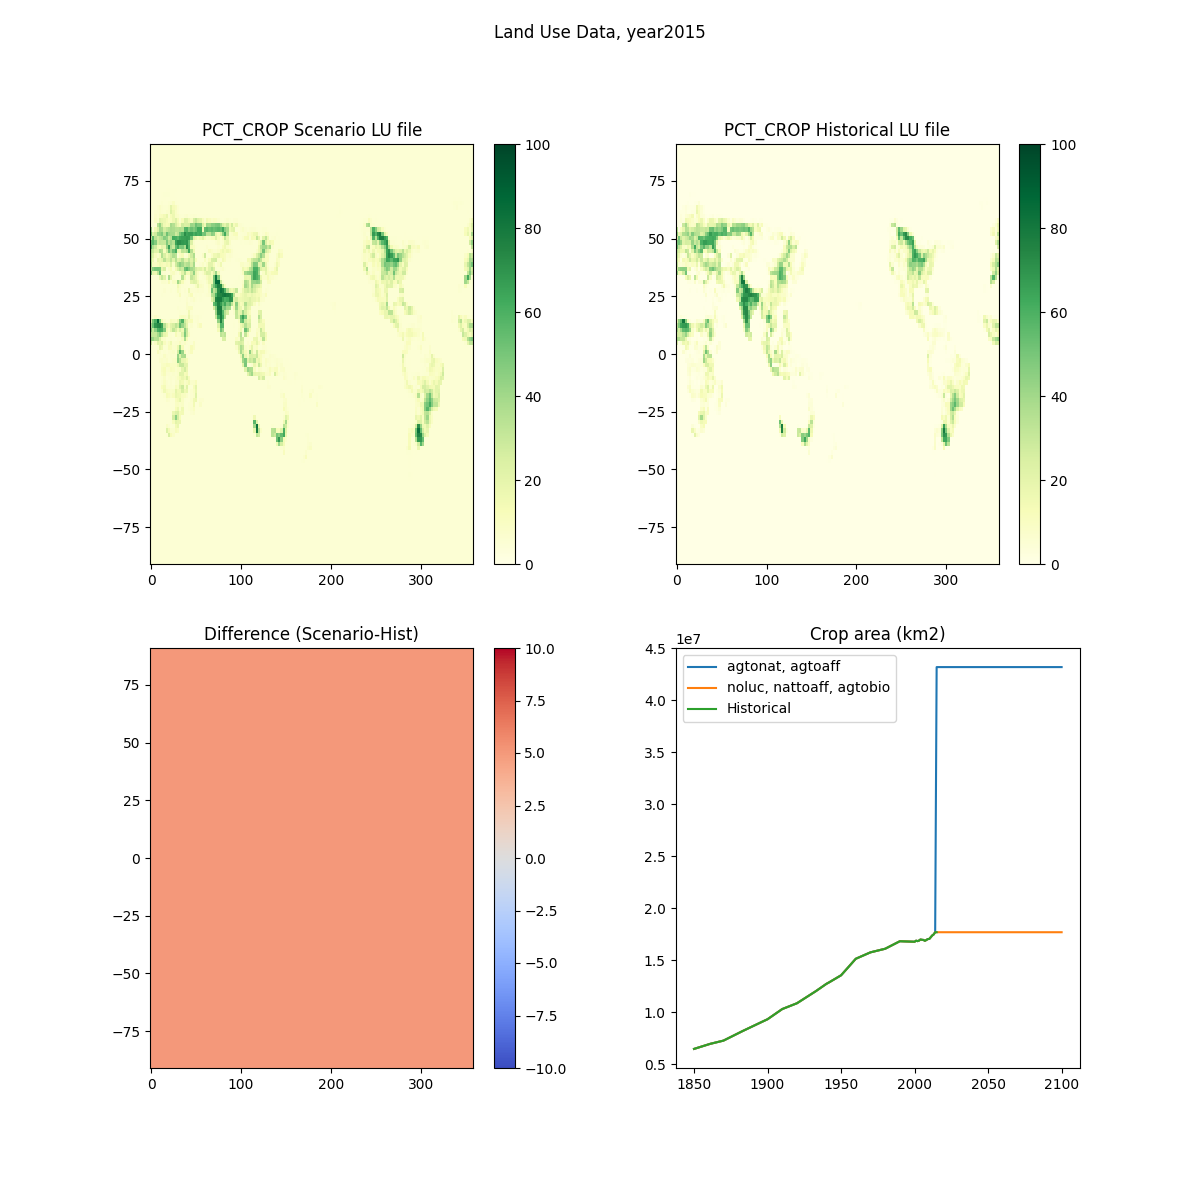
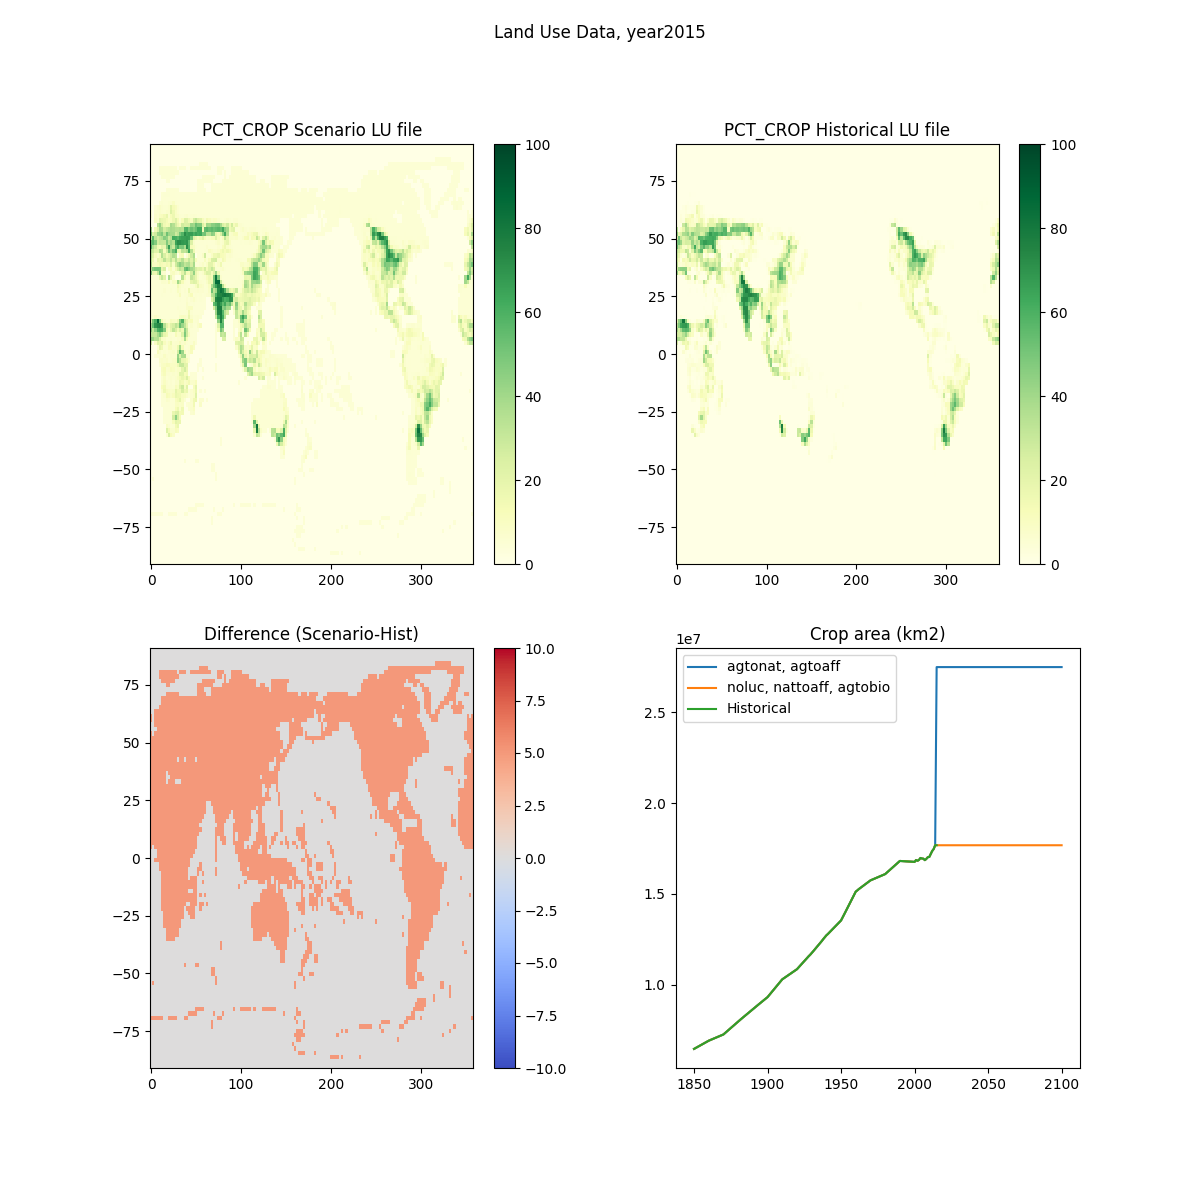
Fix bug in nattobio (mask out glacier regions)

diff --git a/Modify_landuse_future.py b/Modify_landuse_future.py
@@ -9,11 +9,12 @@ import Plot_LU
 from matplotlib import pyplot as plt
 
 # define scenario and experiment
-ssp_name1 = 'ssp370' #ssp126, ssp370
-ssp_name2 = 'SSP3-7.0' # SSP1-2.6, SSP3-7.0
+ssp_name1 = 'ssp126' #ssp126, ssp370
+ssp_name2 = 'SSP1-2.6' # SSP1-2.6, SSP3-7.0
 
 #exp_name = 'noluc' # noluc, agtonat, agtoaff, nattoaff, agtobio, nattobio
-exp_names = ['noluc', 'agtonat', 'agtoaff', 'nattoaff', 'agtobio', 'nattobio']
+#exp_names = ['noluc', 'agtonat', 'agtoaff', 'nattoaff', 'agtobio', 'nattobio']
+exp_names = ['nattobio']
 for i_exp, exp_name in enumerate (exp_names):
     # define file names
     org_landuse_file = '/cluster/shared/noresm/inputdata/lnd/clm2/surfdata_map/release-clm5.0.18/landuse.timeseries_1.9x2.5_' + ssp_name2 + '_78pfts_CMIP6_simyr1850-2100_c190228.nc'
@@ -76,9 +77,9 @@ for i_exp, exp_name in enumerate (exp_names):
         for i in range(9,15):
             natpft_2015[0,i,:,:] = np.where((pctcrop_2015>5.0) & (pct_nonforest>addforest),natpft_2015[0,i,:,:] - addforest*(natpft_2015[0,i,:,:]/pct_nonforest), natpft_2015[0,i,:,:])
 
-        #special treatment of no-forrest grid-cells. Put all addforest into BET Tropical (-40<lat<40) or NET Boreal 
-        natpft_2015[0,2,:,:] = np.where((abs(lat)>40) & (landfrac>0.0) & (pctcrop_2015>5.0) & (pct_nonforest>addforest) & (pct_forest==0.0),natpft_2015[0,2,:,:] + addforest, natpft_2015[0,2,:,:])
-        natpft_2015[0,4,:,:] = np.where((abs(lat)<=40) & (landfrac>0.0) & (pctcrop_2015>5.0) & (pct_nonforest>addforest) & (pct_forest==0.0),natpft_2015[0,4,:,:] + addforest, natpft_2015[0,4,:,:])
+        #special treatment of no-forrest grid-cells. Put all addforest into BET Tropical (-37<lat<37) or NET Boreal 
+        natpft_2015[0,2,:,:] = np.where((abs(lat)>37) & (landfrac>0.0) & (pctcrop_2015>5.0) & (pct_nonforest>addforest) & (pct_forest==0.0),natpft_2015[0,2,:,:] + addforest, natpft_2015[0,2,:,:])
+        natpft_2015[0,4,:,:] = np.where((abs(lat)<=37) & (landfrac>0.0) & (pctcrop_2015>5.0) & (pct_nonforest>addforest) & (pct_forest==0.0),natpft_2015[0,4,:,:] + addforest, natpft_2015[0,4,:,:])
 
         # reduce crop area with 5 pct
         pctcrop_2015 = np.where((pctcrop_2015>5.0) & (pct_nonforest>addforest) ,pctcrop_2015 - 5.0, pctcrop_2015)  
@@ -96,9 +97,9 @@ for i_exp, exp_name in enumerate (exp_names):
         for i in range(9,15):
             natpft_2015[0,i,:,:] = np.where((landfrac>0.0) & (pct_nonforest>addforest),natpft_2015[0,i,:,:] - addforest*(natpft_2015[0,i,:,:]/pct_nonforest), natpft_2015[0,i,:,:])
 
-        #special treatment of no-forrest grid-cells. Put all addforest into BET Tropical (-40<lat<40) or NET Boreal 
-        natpft_2015[0,2,:,:] = np.where((abs(lat)>40) & (landfrac>0.0) & (pct_nonforest>addforest) & (pct_forest==0.0),natpft_2015[0,2,:,:] + addforest, natpft_2015[0,2,:,:])
-        natpft_2015[0,4,:,:] = np.where((abs(lat)<=40) & (landfrac>0.0) & (pct_nonforest>addforest) & (pct_forest==0.0),natpft_2015[0,4,:,:] + addforest, natpft_2015[0,4,:,:])
+        #special treatment of no-forrest grid-cells. Put all addforest into BET Tropical (-37<lat<37) or NET Boreal 
+        natpft_2015[0,2,:,:] = np.where((abs(lat)>37) & (landfrac>0.0) & (pct_nonforest>addforest) & (pct_forest==0.0),natpft_2015[0,2,:,:] + addforest, natpft_2015[0,2,:,:])
+        natpft_2015[0,4,:,:] = np.where((abs(lat)<=37) & (landfrac>0.0) & (pct_nonforest>addforest) & (pct_forest==0.0),natpft_2015[0,4,:,:] + addforest, natpft_2015[0,4,:,:])
 
     elif exp_name == 'agtobio': #Conversion of agricultural land to bioenergy
         print('agtobio')
@@ -120,18 +121,18 @@ for i_exp, exp_name in enumerate (exp_names):
         #Keep PFT dist. PCT_CROP + 5 %. Modify PCT_CFT.
 
         # change pct_crop (implicitly changing pct_natveg), keeping pft and cft distributions
-        pctcrop_2015 = np.where(pct_forest+pct_nonforest>5.0,pctcrop_2015 + 5.0, pctcrop_2015)  
+        pctcrop_2015 = np.where((landfrac>0.0) & (pct_natveg>5.0),pctcrop_2015 + 5.0, pctcrop_2015)  
         
         addbio = 100 * 5.0/pctcrop_2015
 
         # subtract area from all (other) cfts
         for i in range(0, 64):
             #print('i='+str(i))    
-            pctcft_2015[0,i,:,:] = np.where((pct_forest+pct_nonforest>5.0) ,np.maximum(0 , pctcft_2015[0,i,:,:] - addbio*(pctcft_2015[0,i,:,:]/100)), pctcft_2015[0,i,:,:])
+            pctcft_2015[0,i,:,:] = np.where((landfrac>0.0) & (pct_natveg>5.0) ,np.maximum(0 , pctcft_2015[0,i,:,:] - addbio*(pctcft_2015[0,i,:,:]/100)), pctcft_2015[0,i,:,:])
 
         # add area to irr miscanthus
         i=71-14    
-        pctcft_2015[0,i,:,:] = np.where(pct_forest+pct_nonforest>5.0 ,pctcft_2015[0,i,:,:] + addbio, pctcft_2015[0,i,:,:])
+        pctcft_2015[0,i,:,:] = np.where((landfrac>0.0) & (pct_natveg>5.0) ,pctcft_2015[0,i,:,:] + addbio, pctcft_2015[0,i,:,:])
 
     else: 
         print('No exp_name match')
